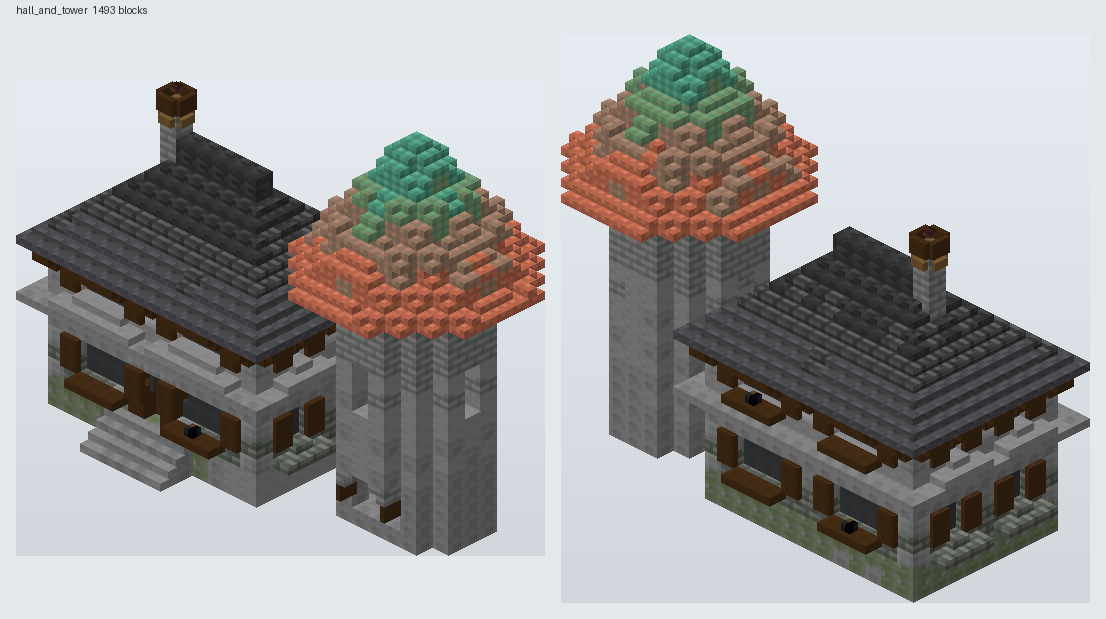
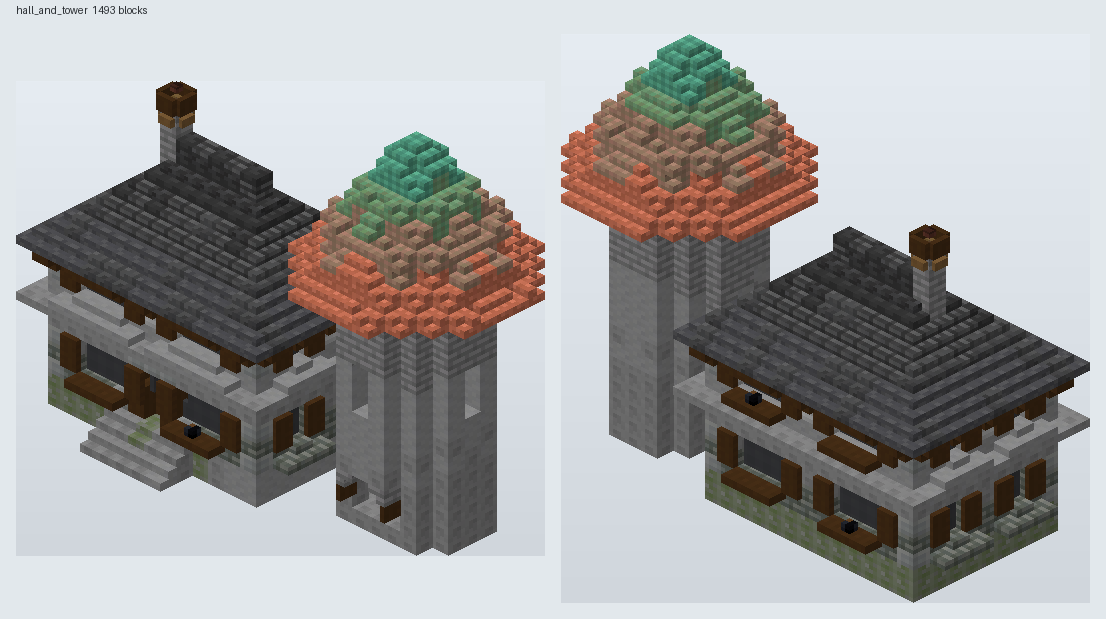
minecraft-builder: texture every roof with two same-colour blocks mixed at random
Shared pair table (matches 06-roof step 10), nearest same-colour partner otherwise,
copper keeps its weathering gradient; substitutes stay in their material family.

Claude-Session: https://claude.ai/code/session_01A4uWhX18xXyhyv2GR6HyHU

diff --git a/.claude/skills/minecraft-builder/scripts/materials.py b/.claude/skills/minecraft-builder/scripts/materials.py
@@ -13,6 +13,10 @@ Gradient options: axis x|y|z|radial|noise (radial: distance from "center" [x, z]
 extent of the cells using the material; "reverse": true; "dither": "bayer" (default) | "none";
 "jitter": 0.04 (hashed band-edge wobble, the roof-gradient value); "noise": 0.1 (low-frequency wobble);
 "blend": 0.5 (share of each step that is a dithered seam; 1 = dither the whole way, 0 = hard bands).
+"texture": true | 0.35 | {"share": 0.35, "with": {"bricks": "granite"}}   every block of the material is mixed
+at random, cell by cell, with a second block of the same colour (TEXTURE_PAIRS, else nearest by OKLab in the
+same family with the same partial forms), so a surface reads as texture, not one repeated block. Every house
+roof has it on (Mateo, 2026-11-12); copper is never paired.
 Ladders never skip a step: neighbouring cells differ by at most one ladder block.
 """
 import json, math, os
@@ -62,6 +66,19 @@ def doctrine_ladder(code):
                 for f in r["families"]: _DOC[f["code"]] = f
     if code not in _DOC: raise KeyError(f"doctrine code {code} not found (build-instructions/texturing/doctrine.json)")
     return list(_DOC[code]["blocks"])
+
+
+# Roof texture pairs: main block -> (partner, partner's share), mixed at random cell by cell. The same table
+# as build-instructions/06-roof step 10 (kit.ROOF_TEXTURE); blocks not listed get the nearest same-colour
+# block. Copper is the exception: it keeps its weathering gradient and is never paired.
+TEXTURE_PAIRS = {
+    "deepslate_tiles": ("deepslate_bricks", 0.40), "brick_block": ("granite", 0.35),
+    "dark_oak_planks": ("spruce_planks", 0.30), "spruce_planks": ("dark_oak_planks", 0.30),
+    "mangrove_planks": ("dark_oak_planks", 0.25), "smooth_quartz": ("polished_diorite", 0.35),
+    "dark_prismarine": ("warped_planks", 0.30), "prismarine_bricks": ("prismarine", 0.35),
+    "smooth_red_sandstone": ("red_sandstone", 0.35), "polished_blackstone_bricks": ("blackstone", 0.35),
+    "mud_bricks": ("granite", 0.20),
+}
 
 
 class Materials:
@@ -119,8 +136,56 @@ class Materials:
             m["_ladder"] = [[k / n, b] for k, b in enumerate(ids)]
         else:
             raise ValueError(f"material {name}: needs block, color, gradient or ladder")
+        if m.get("texture") and "_ladder" in m:
+            m["_pair"] = self.partners(name, m)
         self.cache[name] = m
         return m
+
+    def partner(self, b, need, avoid=()):
+        """The block that textures `b`: nearest other block by OKLab with the same partial forms, same family
+        first (wood and metal never leave their family), never concrete or wool, never its own waxed twin or
+        another step of the same ladder; None when nothing is close enough."""
+        pal = self.pal
+        fam = [t for t in pal.blocks[b]["tags"] if t in ("stone", "terracotta", "wood", "metal", "natural")]
+        bare = lambda i: i.replace("waxed_", "")
+        lim = 0.09 if "wood" in fam else 0.06
+        tries = [(fam or None, lim)]
+        if not set(fam) & {"wood", "metal"}: tries.append((["stone", "terracotta", "natural"], 0.045))
+        for tags, lim in tries:
+            cs = [c for c in pal.candidates(need=need, tags_ok=tags) if bare(c) != bare(b) and bare(c) not in avoid
+                  and not any(t in pal.blocks[c]["tags"] for t in ("concrete", "wool"))
+                  and abs(pal.rough(c) - pal.rough(b)) <= 1]
+            if not cs: continue
+            n, d = pal.nearest(pal.blocks[b]["oklab"], cs)
+            if d[0] <= lim: return n[0]
+        return None
+
+    def partners(self, name, m):
+        """Each ladder block -> (partner, share). The shared table first, then the nearest block of the same
+        colour; failing that the next step of the material's own ladder when it is close, mixed in less."""
+        tx = m["texture"]
+        given = tx.get("with", {}) if isinstance(tx, dict) else {}
+        share = tx if isinstance(tx, (int, float)) and not isinstance(tx, bool) else (tx.get("share", 0.35) if isinstance(tx, dict) else 0.35)
+        need = m.get("need", ["slab", "stairs"])
+        lad = [b for _, b in m["_ladder"]]
+        avoid = {b.replace("waxed_", "") for b in lad}
+        pal, out = self.pal, {}
+        for k, b in enumerate(lad):
+            if "copper" in b: continue                      # copper keeps its weathering gradient
+            if b in given:
+                try: out[b] = (pal.resolve(given[b]), share)
+                except KeyError: self.log.append(f"material {name}: texture partner '{given[b]}' is not in the palette, skipped")
+                continue
+            if b in TEXTURE_PAIRS and TEXTURE_PAIRS[b][0] in pal.blocks:
+                out[b] = TEXTURE_PAIRS[b]; continue
+            p = self.partner(b, need, avoid)
+            if p: out[b] = (p, share); continue
+            near = [lad[j] for j in (k + 1, k - 1) if 0 <= j < len(lad)]
+            near = [(float(np.linalg.norm((np.array(pal.blocks[n]["oklab"]) - pal.blocks[b]["oklab"]) * pal.W)), n) for n in near]
+            near = [t for t in near if t[0] <= 0.17]
+            if near: out[b] = (min(near)[1], share * 0.6)
+            else: self.log.append(f"material {name}: no same-colour block to texture {b} with, left plain")
+        return out
 
     def note_cell(self, name, x, y, z):
         """Called for every cell before resolving, so gradients default to the material's real extent."""
@@ -133,8 +198,14 @@ class Materials:
         """-> (block id, is_raw)"""
         m = self.define(name)
         if "_raw" in m: return m["_raw"], True
+        b = self._pick(name, m, x, y, z)
+        pr = m.get("_pair", {})
+        if b in pr and h3(x, y, z, 23) < pr[b][1]: b = pr[b][0]
+        return b, False
+
+    def _pick(self, name, m, x, y, z):
         lad = m["_ladder"]
-        if len(lad) == 1: return lad[0][1], False
+        if len(lad) == 1: return lad[0][1]
         ax = m.get("axis", "y")
         rng = self.ranges.get(name, [[x, y, z], [x, y, z]])
         if ax == "noise":
@@ -153,4 +224,4 @@ class Materials:
         if m.get("noise"): p += (vnoise(x, y, z, m.get("scale", 4.0), 11) - 0.5) * 2 * m["noise"]
         if m.get("jitter"): p += (h3(x, y, z, 5) - 0.5) * 2 * m["jitter"]
         p = min(1.0, max(0.0, p))
-        return ladder_pick(lad, p, x, y, z, dither=m.get("dither", "bayer") != "none", blend=m.get("blend", 0.5)), False
+        return ladder_pick(lad, p, x, y, z, dither=m.get("dither", "bayer") != "none", blend=m.get("blend", 0.5))

diff --git a/.claude/skills/minecraft-builder/scripts/parts.py b/.claude/skills/minecraft-builder/scripts/parts.py
@@ -521,10 +521,15 @@ def house(ctx, s):
 
 
 def _with_range(m, lo, hi):
+    """Roof material: the ladder spans eave to ridge, and every roof is textured (two same-colour blocks
+    mixed at random, Mateo 2026-11-12) unless the spec says "texture": false."""
     if isinstance(m, dict) and ("ladder" in m or "gradient" in m):
         m = dict(m); m.setdefault("from", lo); m.setdefault("to", hi)
     elif isinstance(m, str) and len(m) >= 5 and m[3] == "-" and m[:3].isupper():
         m = {"ladder": m, "axis": "y", "from": lo, "to": hi, "reverse": True}
+    elif isinstance(m, str):
+        m = {"color": m} if m.startswith("#") else {"block": m}
+    if isinstance(m, dict): m = dict(m); m.setdefault("texture", True)
     return m
 
 

diff --git a/.claude/skills/minecraft-builder/scripts/colour.py b/.claude/skills/minecraft-builder/scripts/colour.py
@@ -138,6 +138,8 @@ class Palette:
         idx = [self.ids.index(c) for c in cands]
         d = np.linalg.norm(self.lab[idx] - np.asarray(b["oklab"]), axis=1)
         d = d + 0.02 * np.array([abs(self.rough(c) - self.rough(block)) for c in cands])
+        fam = set(b["tags"]) & {"stone", "terracotta", "wood", "metal", "concrete", "wool", "natural"}
+        d = d + 0.05 * np.array([0 if fam & set(self.blocks[c]["tags"]) else 1 for c in cands])   # stone stays stone
         cache[key] = cands[int(np.argmin(d))]
         return cache[key]
 

diff --git a/.claude/skills/minecraft-builder/reference/parts.md b/.claude/skills/minecraft-builder/reference/parts.md
@@ -122,6 +122,17 @@ block under the lowest verge stair at every corner. Gable triangles fill after t
 post (timber) and an attic window when the gable is 5 or more tall. Roof colour ladders run eaves to
 ridge, darkest at the ridge, with band edges wobbled ±0.04.
 
+**Every roof is textured** (Mateo, 2026-11-12, every style and theme): each roof block is mixed at random,
+cell by cell, with a partner block of the same colour, on stairs, slabs and the ridge alike. Pairs and the
+partner's share come from `TEXTURE_PAIRS` in `scripts/materials.py`, the same table as 06-roof step 10:
+deepslate tiles + deepslate bricks 40%, brick + granite 35%, dark oak + spruce 30%, spruce + dark oak 30%,
+mangrove + dark oak 25%, smooth quartz + polished diorite 35%, dark prismarine + warped planks 30%,
+prismarine bricks + prismarine 35%, smooth red sandstone + red sandstone 35%, polished blackstone bricks +
+blackstone 35%, mud bricks + granite 20%. Other blocks get the nearest same-colour block with stair and slab
+forms. Copper is the exception and keeps its weathering gradient. `"texture": false` on the roof material
+turns it off; `{"share": 0.4, "with": {"bricks": "mud_bricks"}}` picks your own. Domes and cones built from
+shapes take the same option on their material (`"texture": true`).
+
 Several roofs passed to `build_roofs` together combine by height (higher roof wins), which closes valleys;
 the `house` part builds one roof per building today, so L and T plans are two houses side by side for now.
 

diff --git a/.claude/skills/minecraft-builder/reference/colour.md b/.claude/skills/minecraft-builder/reference/colour.md
@@ -18,7 +18,9 @@ the extent of the cells that use the material); `reverse`; `dither` bayer (defau
 (hashed band-edge wobble, the roof-gradient value from 06-roof); `noise` 0.1 (low-frequency wobble of the
 bands); `blend` 0.5 (share of each step that is a dithered seam: solid bands with a dithered join, so a
 wide flat surface does not turn into checkerboard); `tags` (families: stone, terracotta, wood, metal, concrete, wool, natural); `roughness`; `need`
-(forms the blocks must have, default slab and stairs).
+(forms the blocks must have, default slab and stairs); `texture` true / 0.35 / {"share", "with"} (mix each
+block at random with a same-colour partner, see Roofs in parts.md; on by default for every house roof, never
+for copper).
 
 ## The rules the code follows
 

diff --git a/.claude/skills/minecraft-builder/reference/house-rules.md b/.claude/skills/minecraft-builder/reference/house-rules.md
@@ -15,6 +15,7 @@ palettes, texturing, paths, reference); this page is the short list and where to
 - **Every overhang is carried** (bracket, post, corbel, truss).
 - **Shutters on at most about 30%** of windows, in symmetric pairs; planters on about a quarter.
 - **Roofs overhang 1** at eaves and verges; ridge the long way; secondary roofs lower; no flat roofs on houses
+- **Every roof is textured**: two blocks of the same colour mixed at random (copper keeps its gradient instead)
   outside Emberwaste.
 - **Texturing**: one material in a few shades, gradients over speckle, clusters with a cause (damp low, wear
   at edges), never skip a ladder step (`build-instructions/texturing/README.md`).
